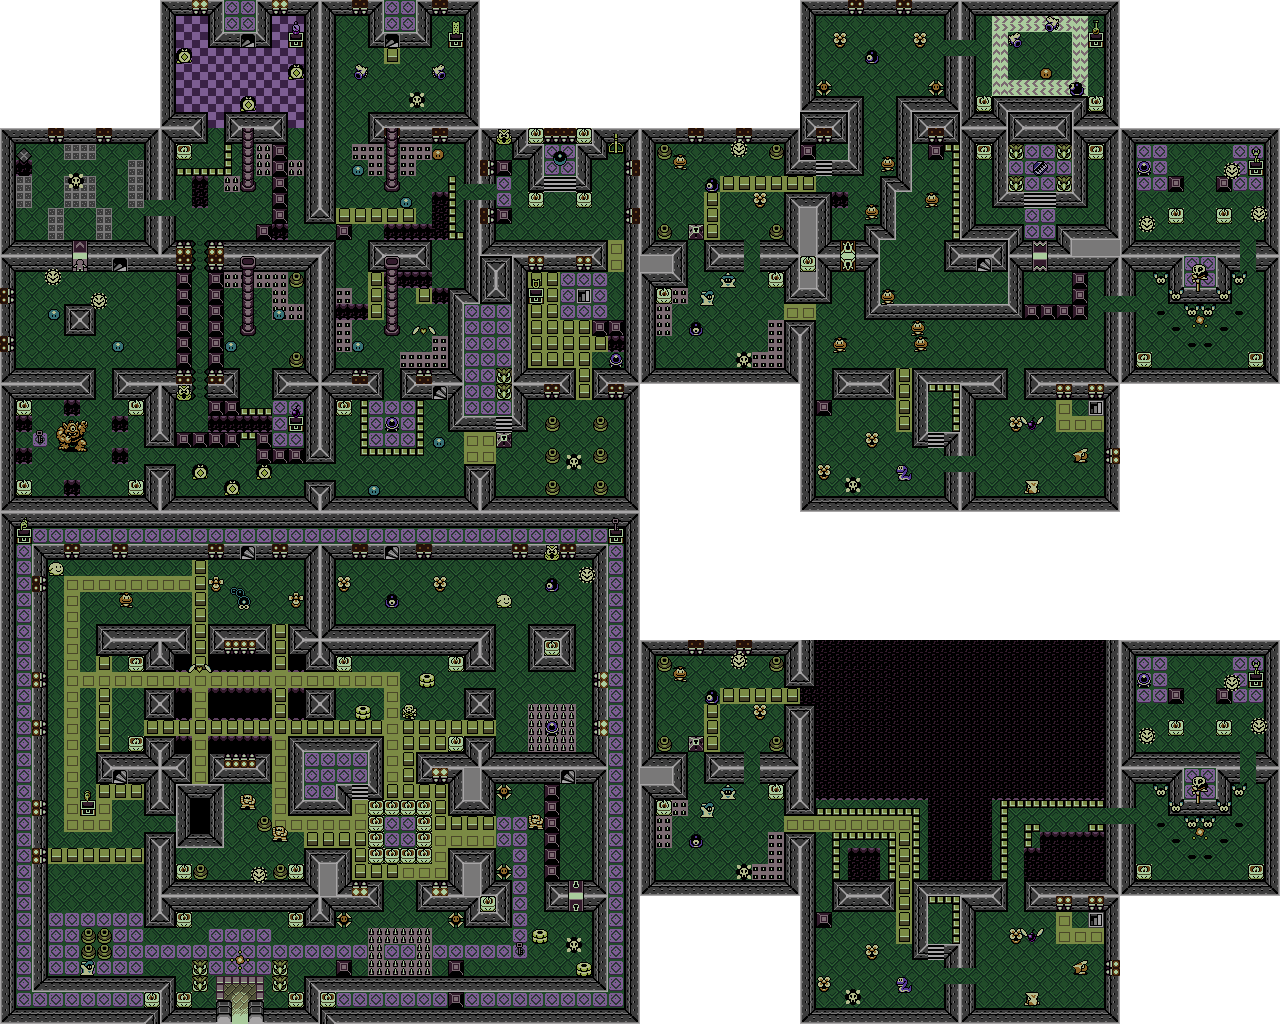
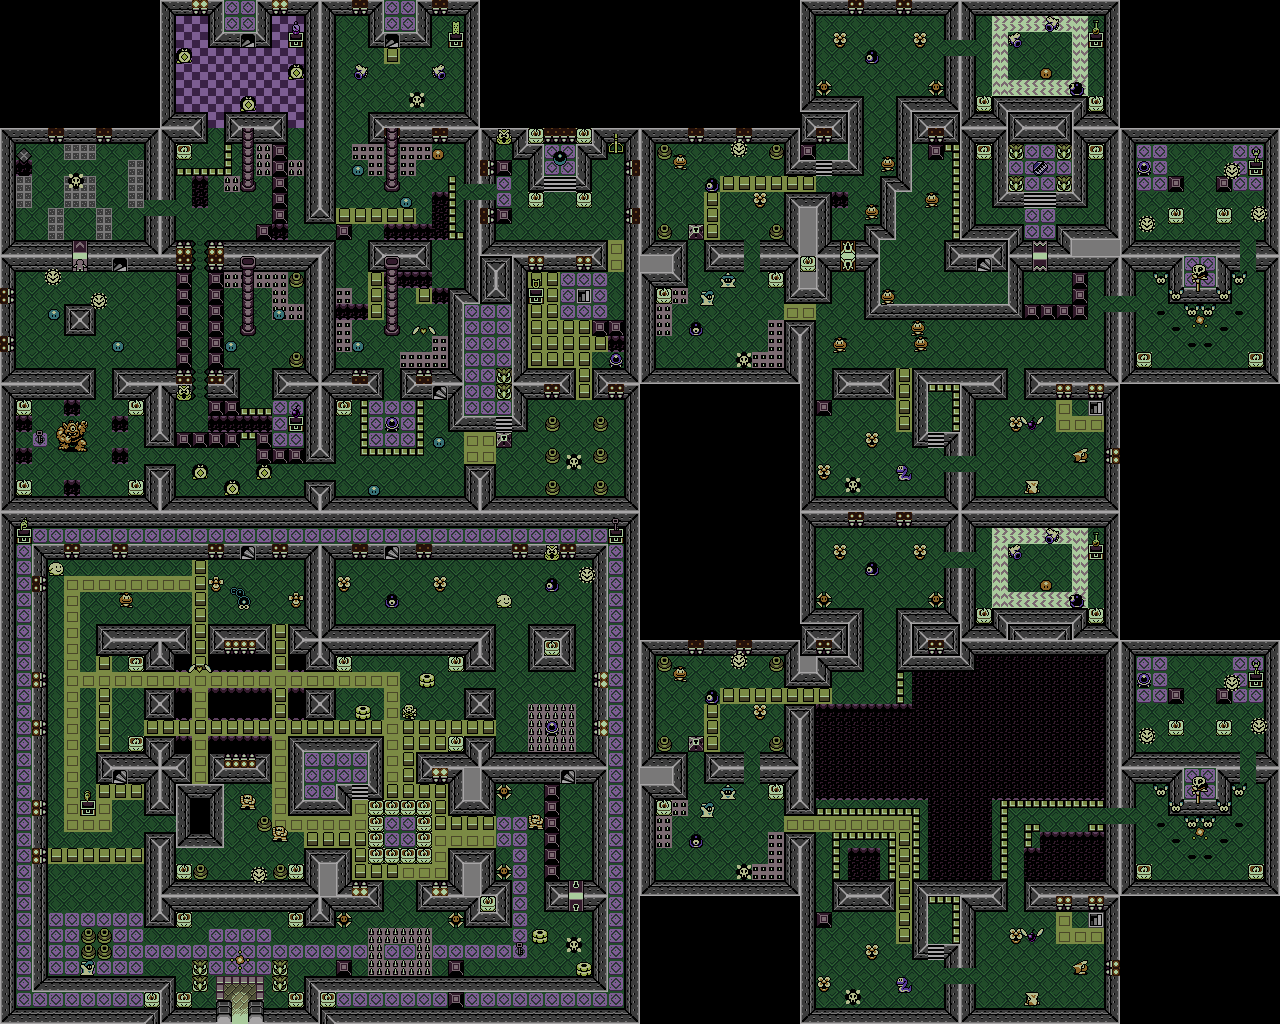
updated d7 map and coords to include conveyor room before pillars fall

diff --git a/static/js/metadata/checkMetadata.js b/static/js/metadata/checkMetadata.js
@@ -2365,6 +2365,11 @@ let vanillaCoordDict = {
              "y":32
           },
           {
+            "map":"d7",
+            "x":1088,
+            "y":544
+         },
+          {
              "map":"vanillaOverworld",
              "x":2348,
              "y":32
